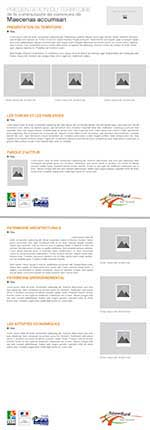
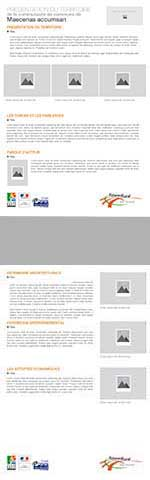
folio 2 choice

diff --git a/partials/backoffice/folio2choice.html b/partials/backoffice/folio2choice.html
@@ -3,26 +3,26 @@
     <h2 class="titre2fond-pres-territoire">Choisir la forme de votre document</h2>
     <div style="width:100%; display:inline-block;">
         <div class="left-pres-territoire">
-            <p style="height: 130px; margin: 70px 0;">Recto</p>
+            <p style="height: 130px; margin: 100px 0;">Recto</p>
             <p>Verso</p>
         </div>
         <div class="cadre-pres-territoire">
             <div class="template-pres-territoire">
                 <a href="#" onclick="return false;" ng-click="makeChoice('territoire1')">
                     <img src="images/pres-territoire-template1.jpg" alt="Présentation du territoire modèle A" title="Présentation du territoire modèle A"/>
-                    <h3><span>Choisir</span><div ng-if="template === 'territoire1'"> &radic;</div></h3>
+                    <h3>Choisir<div ng-if="template === 'territoire1'"> &radic;</div></h3>
                 </a>
             </div>
             <div class="template-pres-territoire">
                 <a href="#" onclick="return false;" ng-click="makeChoice('territoire2')">
                     <img src="images/pres-territoire-template2.jpg" alt="Présentation du territoire modèle B" title="Présentation du territoire modèle B"/>
-                    <h3><span>Choisir</span><div ng-if="template === 'territoire2'"> &radic;</div></h3>
+                    <h3>Choisir<div ng-if="template === 'territoire2'"> &radic;</div></h3>
                 </a>
             </div>
             <div style="border-right: none;" class="template-pres-territoire">
                 <a href="#" onclick="return false;" ng-click="makeChoice('territoire3')">
                     <img src="images/pres-territoire-template3.jpg" alt="Présentation du territoire modèle C" title="Présentation du territoire modèle C"/>
-                    <h3><span>Choisir</span><div ng-if="template === 'territoire3'"> &radic;</div></h3>
+                    <h3>Choisir<div ng-if="template === 'territoire3'"> &radic;</div></h3>
                 </a>
             </div>
         </div>

diff --git a/css/styles_bo.css b/css/styles_bo.css
@@ -270,16 +270,21 @@ h2.titre2fond-pres-territoire{
     text-decoration: none;
 }
 
+.template-pres-territoire img{
+    border: 3px solid #b1b1b1;
+}
+
+
 .template-pres-territoire h3{
     background-color:#00a295;
     -webkit-border-radius: 0px 10px 0px 10px;
     -moz-border-radius: 0px 10px 0px 10px;
-    border-radius: 0px 11px 0px 10px;
-    padding: 5px;
+    border-radius: 0px 10px 0px 10px;
+    padding: 2px;
     color: #fff;
     text-transform:uppercase;
-    width: 50%;
-    margin: 0 auto;
+    width: 40%;
+    margin: 2px auto;
     font-family: Arial;
     font-size: 10px;
     text-align: center;
@@ -288,7 +293,7 @@ h2.titre2fond-pres-territoire{
 
 .template-pres-territoire h3 span{
     float: left;
-    margin-left: 15px;
+    margin: 0 auto;
 }
 
 .right-pres-territoire{
